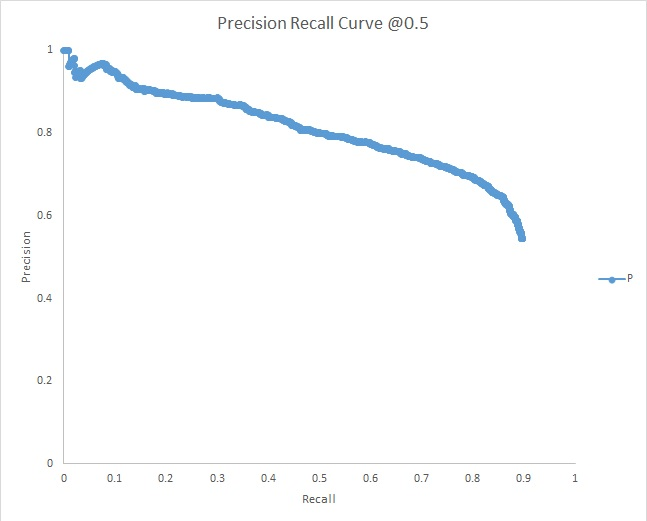
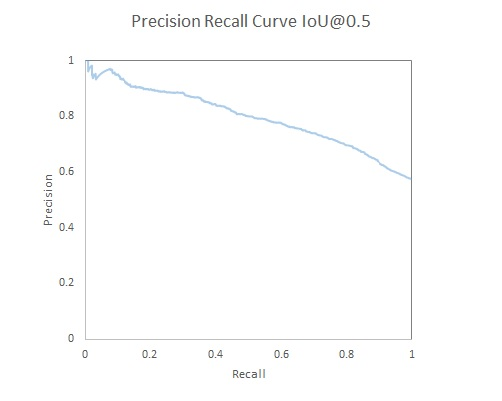
blog

diff --git a/blog-detail4.html b/blog-detail4.html
@@ -192,8 +192,12 @@
 								<a href="https://github.com/Shenggan/BCCD_Dataset">
 									Datasets download
 									<br>
-								</a>
 
+								</a>
+								<br> BCCD dataset contains three kind of labels: Red Blood Cell, White Blood Cell, and Platelets. In the directory there
+								are 410 images and corresponding annotation files, and we divided the dataset into training set and testing set with
+								200 images and 210 images respectively. However, in two or three annotation files(.xml), '.jpg' is missing between
+								the opening and closing tag of 'filename' that would cause errors, just adding '.jpg' manually can fix it.
 							</p>
 
 
@@ -204,7 +208,7 @@
 							</h4>
 							<p class="stext-117 cl6 p-b-26">
 
-								There are total 18 epochs and it stoped because we applied 'EarlyStopping' callback function during my training process.
+								There are total 26 epochs and it stoped because we applied 'EarlyStopping' callback function during my training process.
 								'EarlyStopping' stops training when the validation data set grows several times.
 
 								<div class="wrap-pic-w how-pos5-parent">
@@ -221,6 +225,9 @@
 							<p class="stext-117 cl6 p-b-26">
 
 
+
+								AP=80%
+								<br>
 								<div class="wrap-pic-w how-pos5-parent">
 									<img src="blogImage/0003.jpg" alt="IMG-BLOG">
 								</div>

diff --git a/blog.html b/blog.html
@@ -175,7 +175,7 @@
 							<div class="p-t-32">
 								<h4 class="p-b-15">
 									<a class="ltext-108 cl2 hov-cl1 trans-04">
-										YOLO V2 Multiclass Training and Testing
+										YOLO V2 Testing & PR curve
 									</a>
 								</h4>
 
